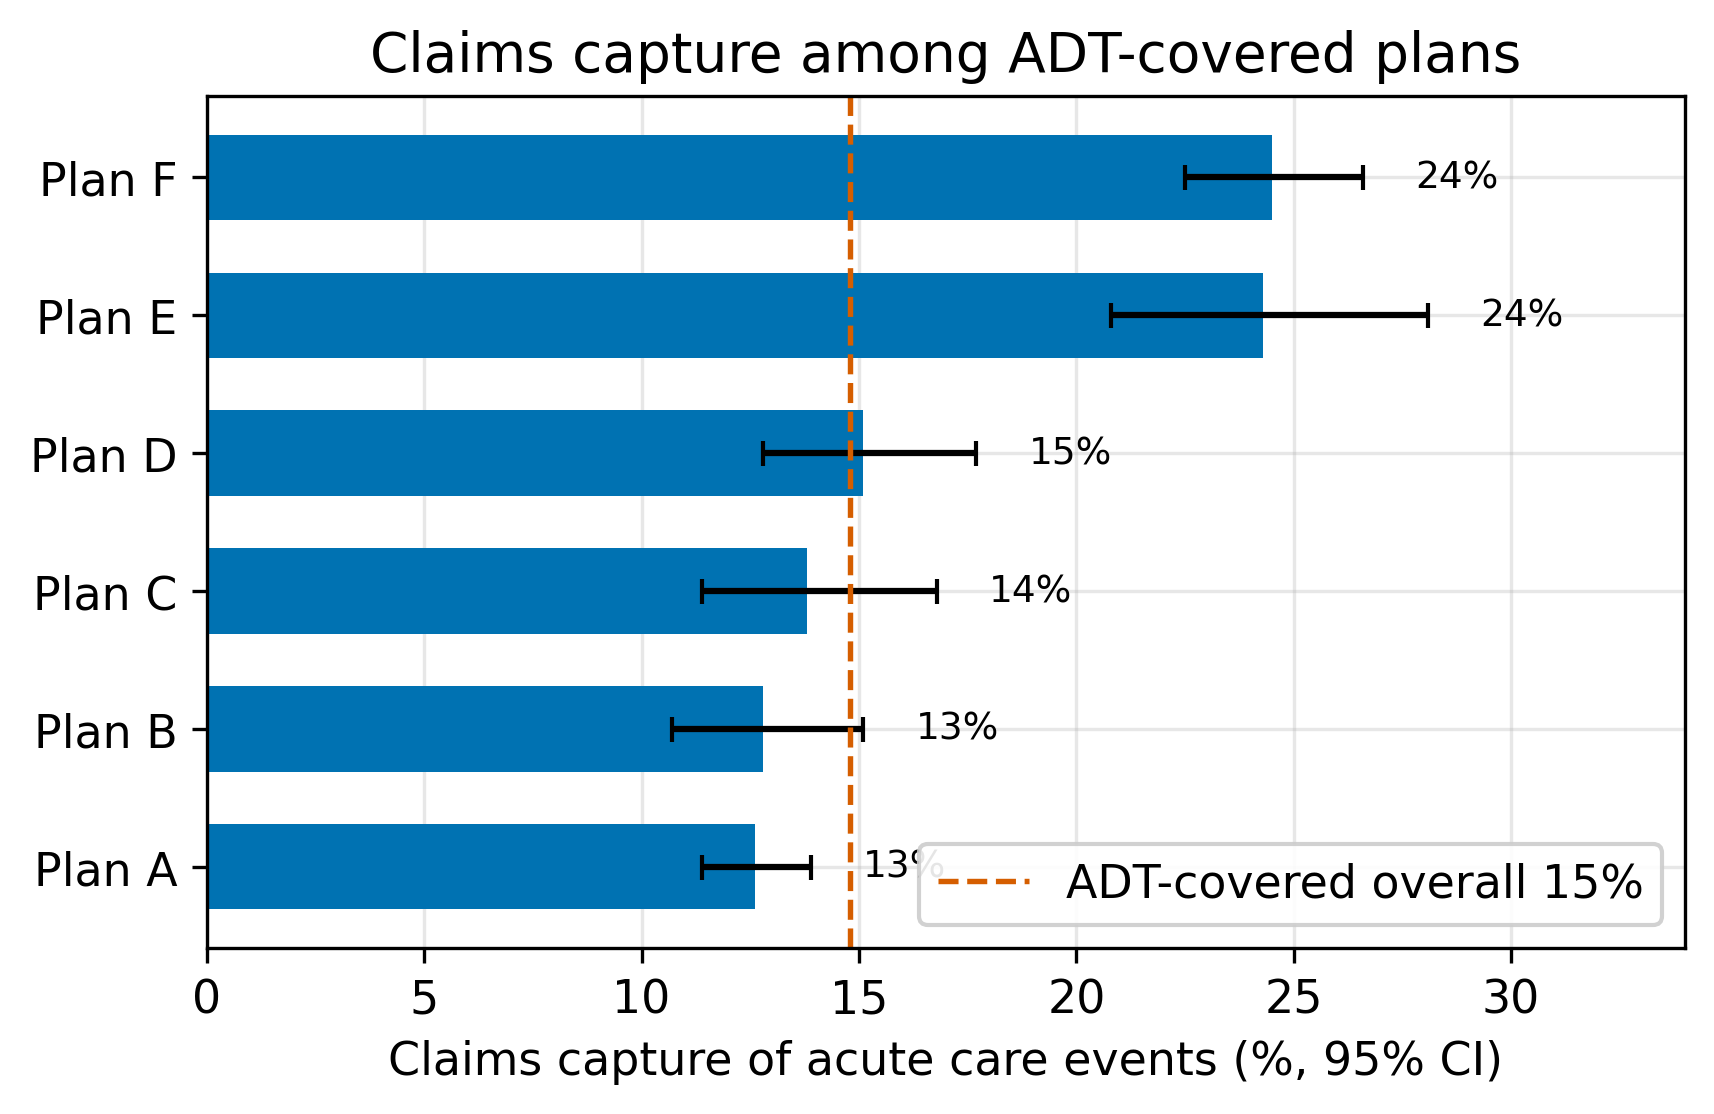
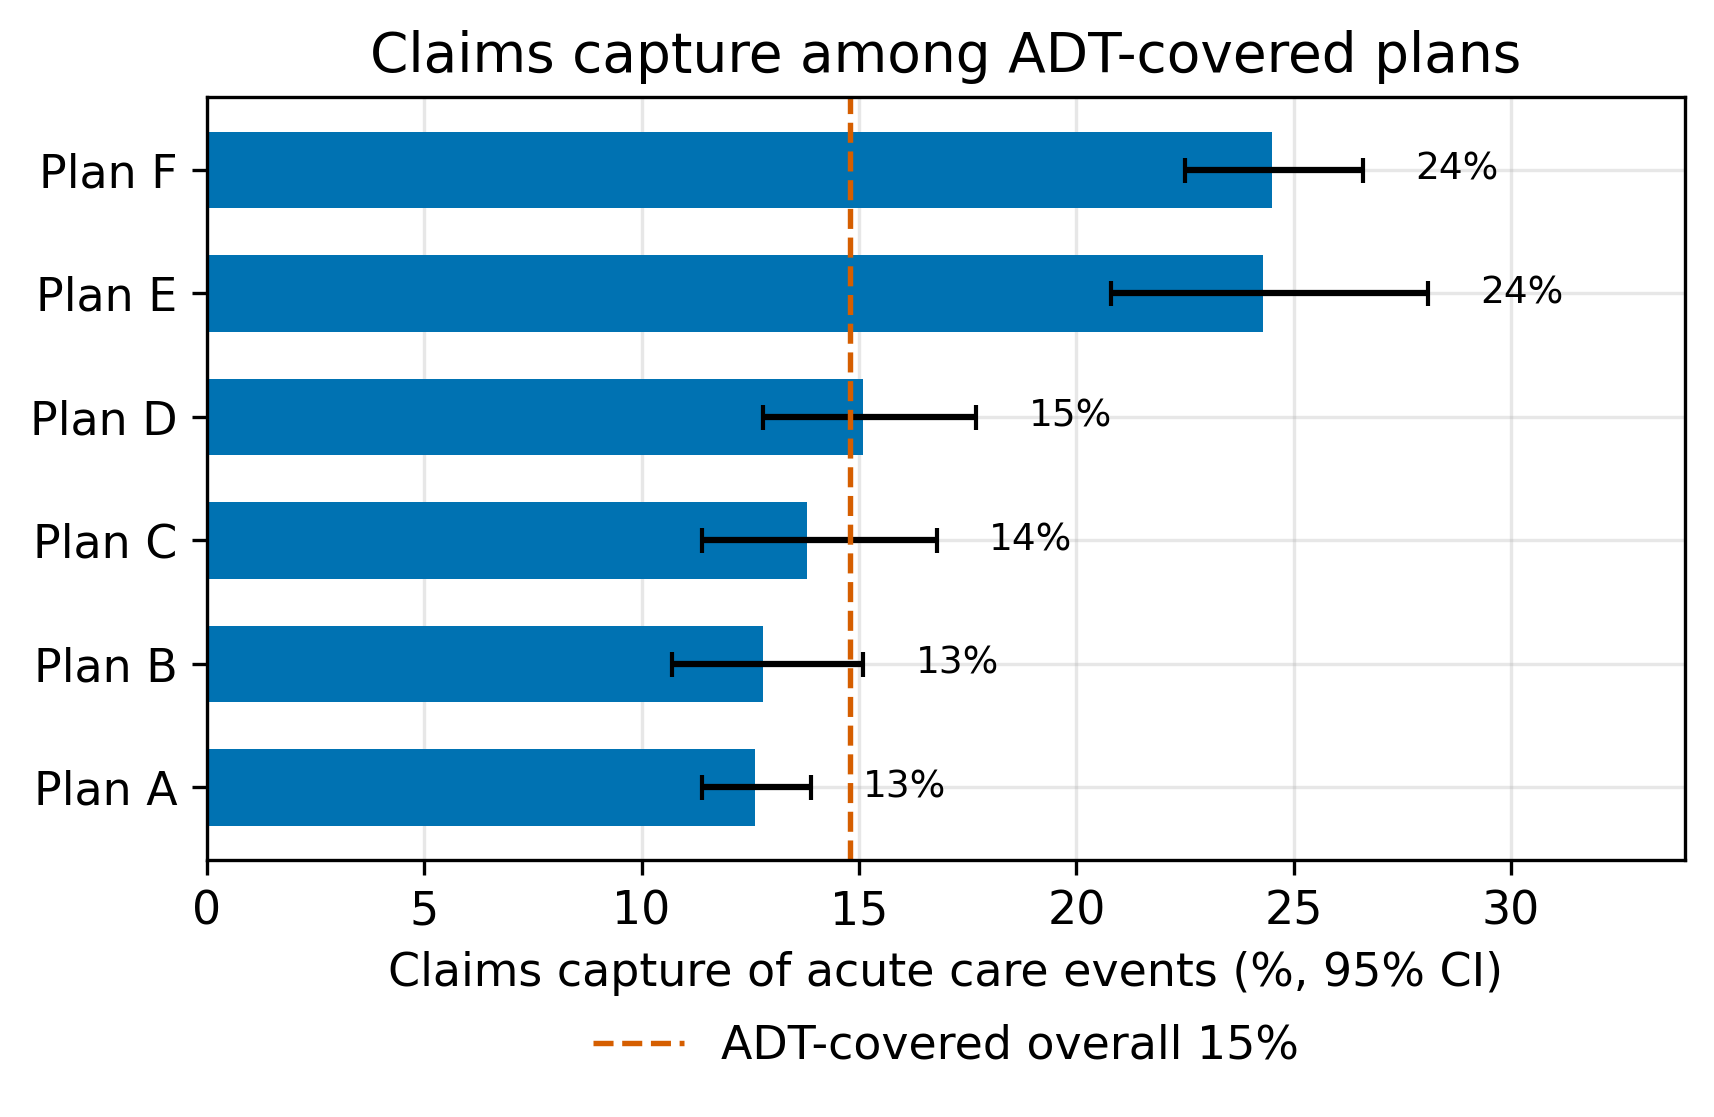
Add bootstrap CIs for AUROC-vs-claims, PPV, F1 (Table 1 all-column CIs); move Figure 2 legend below plot with 1-decimal labels

diff --git a/src/regen_figs.py b/src/regen_figs.py
@@ -14,8 +14,8 @@ v=[df.y_claims.mean()*100,df.y_adt.mean()*100,df.y_union.mean()*100]
 b=ax.bar(['Claims\nonly','ADT\nonly','Claims or ADT\n(union)'],v,color=[CB[0],CB[1],CB[2]],width=0.6)
 ax.set_ylim(0,max(v)*1.20)
 for i,x in enumerate(v): ax.text(i,x+max(v)*0.02,f'{x:.1f}%',ha='center',va='bottom',fontsize=10)
-ax.set_ylabel('90-day acute care rate (%)'); ax.set_title('Figure 1. Acute care rate by data source')
-plt.savefig(f'{OUT}/figs/fig1_prevalence.png',dpi=300); plt.close()
+ax.set_ylabel('90-day acute care rate (%)'); ax.set_title('Acute care rate by data source')
+plt.savefig(f'{OUT}/figs/fig1_prevalence.png',dpi=300,bbox_inches='tight'); plt.close()
 
 # Fig2 capture by plan (anonymized, canonical Table 1 values for exact consistency)
 pos=df[df.y_union==1]
@@ -30,11 +30,11 @@ y=np.arange(len(labels))
 ax.barh(y,est,xerr=[lerr,herr],color=CB[0],capsize=3,height=0.62)
 ax.set_yticks(y); ax.set_yticklabels(labels)
 ax.set_xlim(0,34)
-for i,e in enumerate(est): ax.text(e+herr[i]+1.2,i,f'{e:.0f}%',va='center',ha='left',fontsize=9)
-ax.axvline(overall,ls='--',color=CB[3],lw=1.3,label=f'ADT-covered overall {overall:.0f}%')
+for i,e in enumerate(est): ax.text(e+herr[i]+1.2,i,f'{e:.1f}%',va='center',ha='left',fontsize=9)
+ax.axvline(overall,ls='--',color=CB[3],lw=1.3,label=f'ADT-covered overall {overall:.1f}%')
 ax.set_xlabel('Claims capture of acute care events (%, 95% CI)')
-ax.set_title('Figure 2. Claims capture among ADT-covered plans'); ax.legend(loc='lower right',framealpha=0.9)
-plt.savefig(f'{OUT}/figs/fig2_capture_payer.png',dpi=300); plt.close()
+ax.set_title('Claims capture among ADT-covered plans'); ax.legend(loc='upper center',bbox_to_anchor=(0.5,-0.16),framealpha=0.9,frameon=False)
+plt.savefig(f'{OUT}/figs/fig2_capture_payer.png',dpi=300,bbox_inches='tight'); plt.close()
 
 # Fig3 capture by lag
 pos['lag']=pd.cut(pos.claims_lag_days.fillna(9999),[0,30,90,180,1e9],labels=['≤30','31-90','91-180','>180'])
@@ -42,16 +42,16 @@ g=pos.groupby('lag').y_claims.mean()*100
 fig,ax=plt.subplots(figsize=(4.4,3.6),constrained_layout=True)
 ax.bar(g.index.astype(str),g.values,color=CB[4],width=0.6); ax.set_ylim(0,max(g.values)*1.20)
 for i,x in enumerate(g.values): ax.text(i,x+max(g.values)*0.02,f'{x:.0f}%',ha='center',va='bottom',fontsize=10)
-ax.set_xlabel('Claims lag (days)'); ax.set_ylabel('Claims capture (%)'); ax.set_title('Figure 3. Capture by claims lag')
-plt.savefig(f'{OUT}/figs/fig3_capture_lag.png',dpi=300); plt.close()
+ax.set_xlabel('Claims lag (days)'); ax.set_ylabel('Claims capture (%)'); ax.set_title('Claims capture by claims lag')
+plt.savefig(f'{OUT}/figs/fig3_capture_lag.png',dpi=300,bbox_inches='tight'); plt.close()
 
 # Fig4 recovery
 obs=full['obs']*100; nm=full['naive']['mean_pred'][0]*100; cm=full['corrected']['mean_pred'][0]*100
-fig,ax=plt.subplots(figsize=(4.4,3.6),constrained_layout=True)
+fig,ax=plt.subplots(figsize=(4.8,3.6),constrained_layout=True)
 v=[obs,nm,cm]; ax.bar(['Observed\n(union)','Naive\nclaims','Corrected\n(PU)'],v,color=[CB[2],CB[3],CB[0]],width=0.6)
 ax.set_ylim(0,max(v)*1.20)
 for i,x in enumerate(v): ax.text(i,x+max(v)*0.02,f'{x:.1f}%',ha='center',va='bottom',fontsize=10)
-ax.set_ylabel('Mean predicted / observed rate (%)'); ax.set_title('Figure 4. Calibration on held-out ADT anchor')
-plt.savefig(f'{OUT}/figs/fig4_recovery.png',dpi=300); plt.close()
+ax.set_ylabel('Mean predicted / observed rate (%)'); ax.set_title('Calibration on ADT-covered members')
+plt.savefig(f'{OUT}/figs/fig4_recovery.png',dpi=300,bbox_inches='tight'); plt.close()
 print("regenerated 4 figures (constrained layout, headroom, no overlapping annotation)")
 print("recovery obs/naive/corrected:",round(obs,1),round(nm,1),round(cm,1))

diff --git a/src/ladder_ci.py b/src/ladder_ci.py
@@ -53,6 +53,6 @@ for nm,p in [('status_quo_claims_tabular',p0),('adt_label_tabular',p1),('adt_lab
     R[nm]={'auroc_vs_TRUE':round(au,3),'auroc_vs_TRUE_ci':ci(yU,p,lambda a,b:roc_auc_score(a,b)),
            'auroc_vs_CLAIMS':round(roc_auc_score(yC,p),3),
            'recall10':round(rc,3),'recall10_ci':ci(yU,p,lambda a,b:M(a,b)[1]),
-           'ppv10':round(pp,3),'f1':round(f1,3)}
+           'ppv10':round(pp,3),'f1':round(f1,3),'auroc_vs_CLAIMS_ci':ci(yC,p,lambda a,b:roc_auc_score(a,b)),'ppv10_ci':ci(yU,p,lambda a,b:M(a,b)[2]),'f1_ci':ci(yU,p,lambda a,b:M(a,b)[3])}
 json.dump(R,open('results_ladder_ci.json','w'),indent=2,default=float)
 print(json.dumps(R,indent=2,default=float))